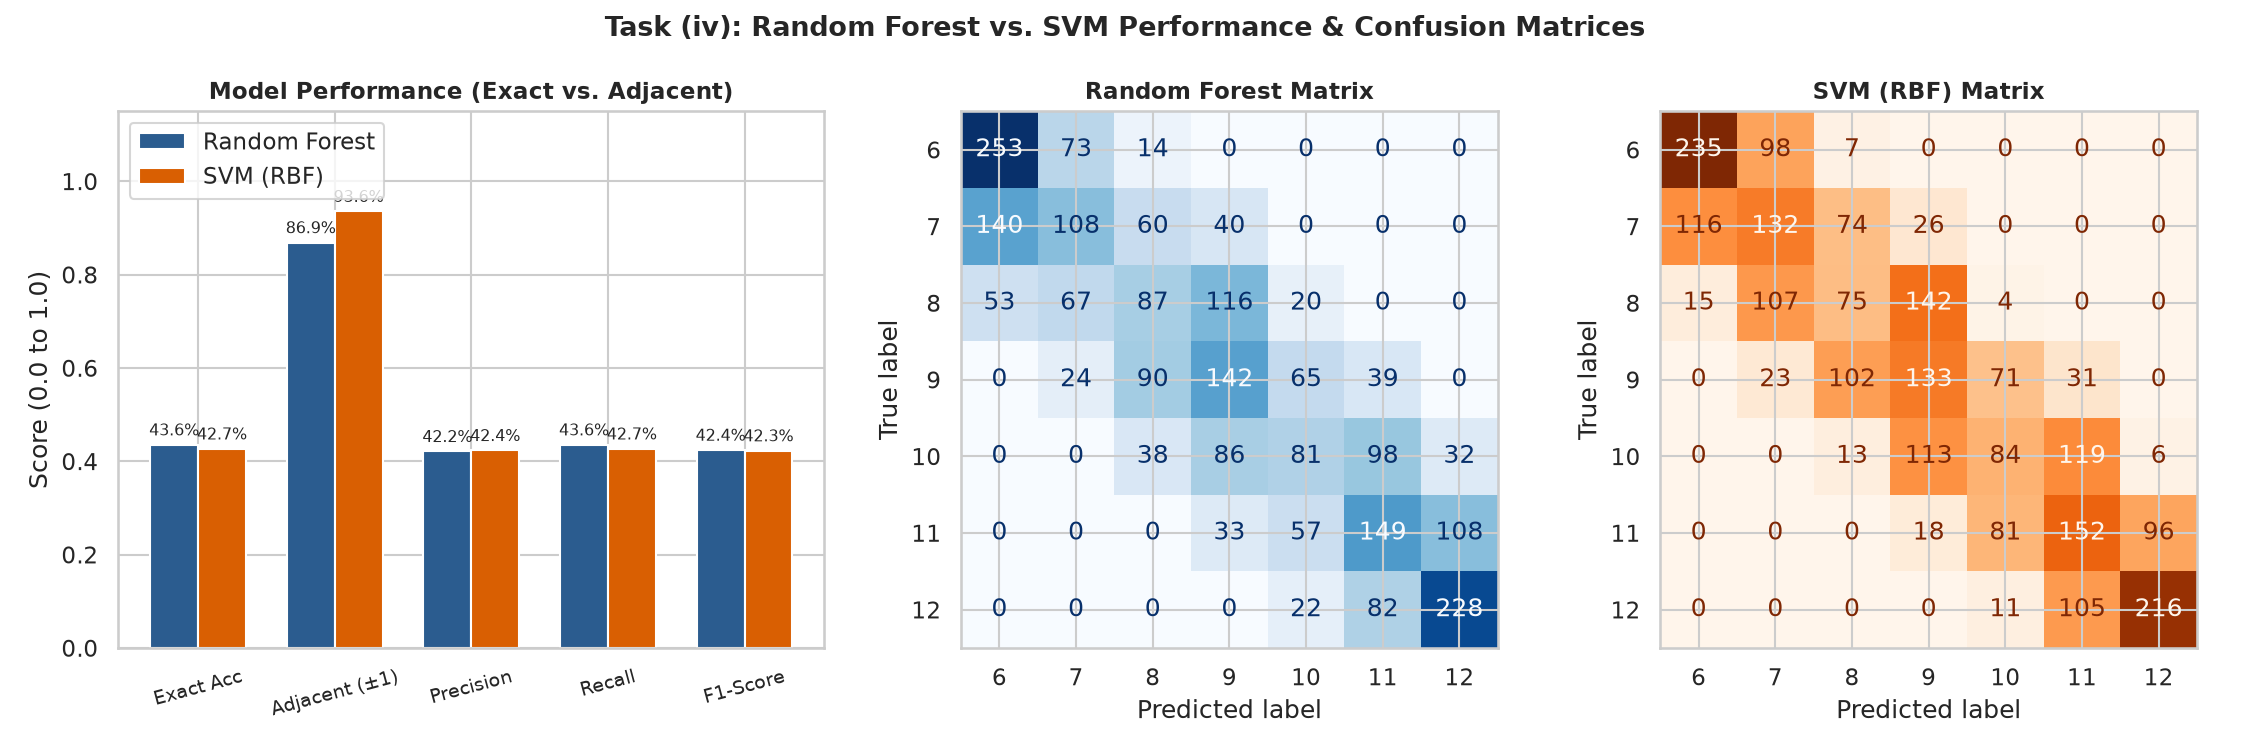
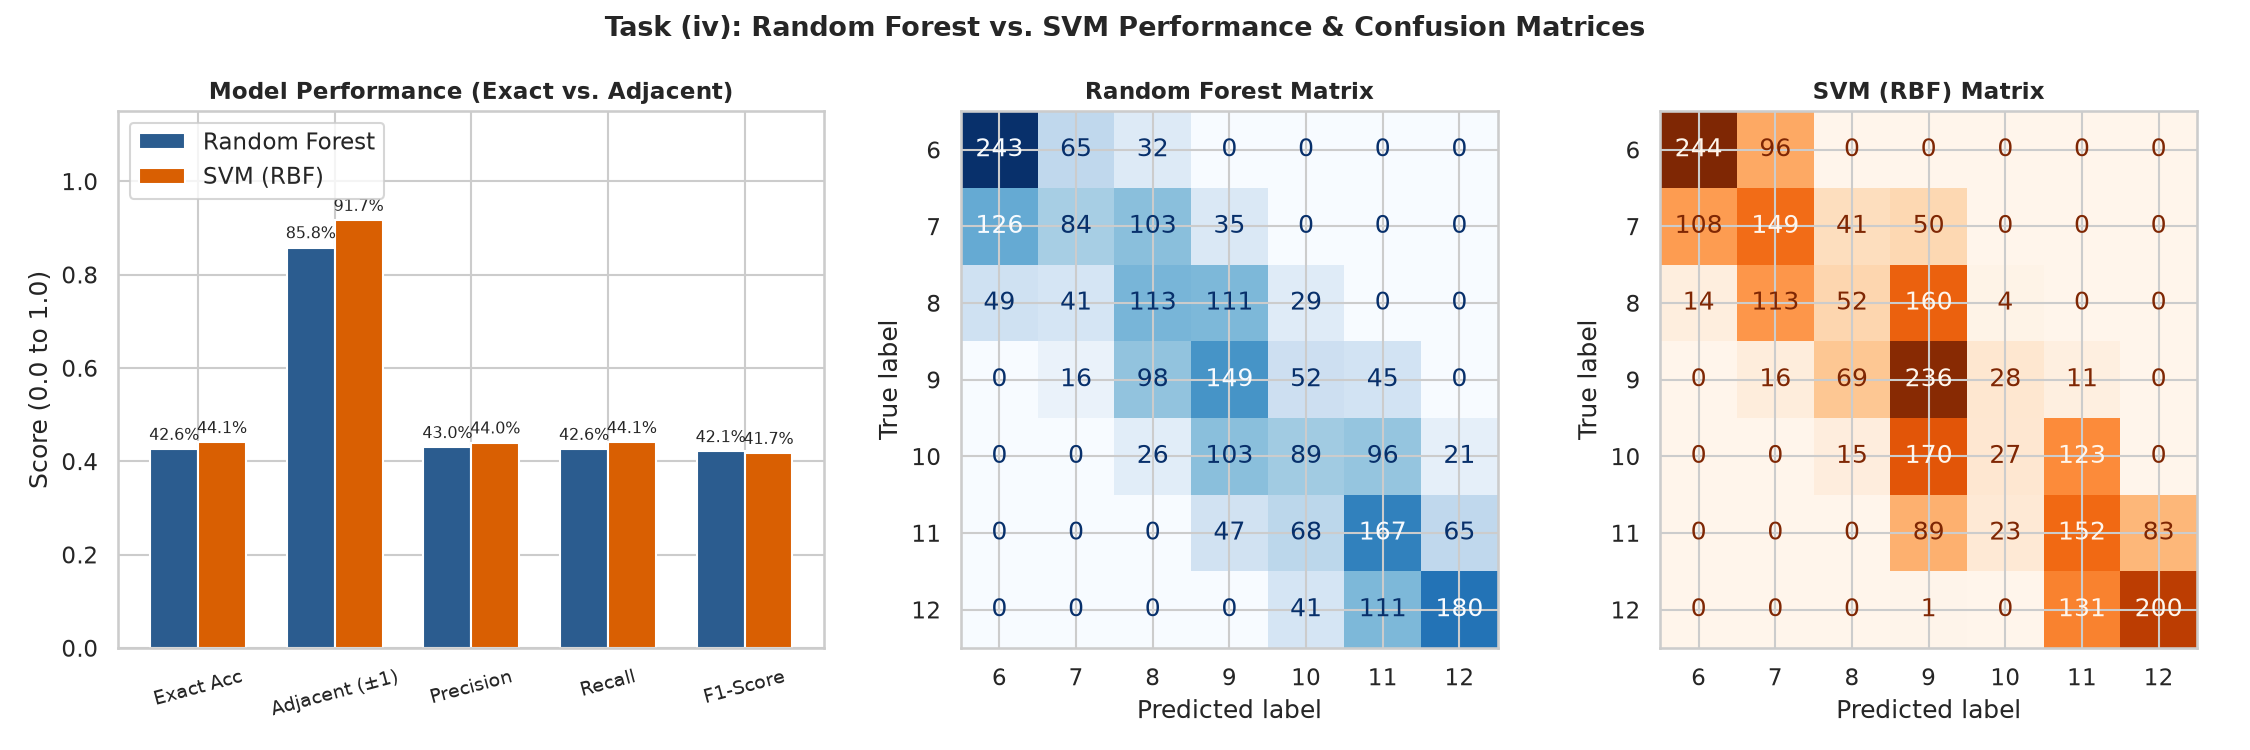
edit feature selection features

diff --git a/student_grade_classification.py b/student_grade_classification.py
@@ -197,9 +197,10 @@ print("\n" + "=" * 60)
 print("TASK (iv): ML MODEL COMPARISON")
 print("=" * 60)
 
-# Stratified 80/20 Train-Test split
+# Stratified 80/20 Train-Test split on the Selected Features
+print(f"Training models on the {len(final_features)} selected features: {final_features}")
 X_train, X_test, y_train, y_test = train_test_split(
-    X_scaled, y, test_size=0.2, random_state=42, stratify=y
+    X_scaled[final_features], y, test_size=0.2, random_state=42, stratify=y
 )
 
 # Model 1: Random Forest (Bagging Ensemble of Decision Trees)

diff --git a/GROUP_WORK_DIVISION.md b/GROUP_WORK_DIVISION.md
@@ -11,8 +11,8 @@ A concise, 5-part script mapped directly to the professor's requirements (3 to 4
 | **Member 1** | **Task (i)** Target & Classes | Target column (`grade_level`), 7 classes, 14.28% baseline, cleaning IDs & dates, scaling | `plot1_target_distribution.png` | $z = \frac{x - \mu}{\sigma}$ (Standardization) |
 | **Member 2** | **Task (ii)** Feature Selection | Why Chi-Square + Mutual Info, why normalize to [0,1], why `age` dominates | `plot2_feature_importance.png` | $\chi^2 = \sum \frac{(O - E)^2}{E}$ |
 | **Member 3** | **Task (iii)** PCA vs. LDA | Supervised vs. Unsupervised; why PCA fails (overlap) & why LDA works (LD1=99.9%) | `plot3_pca_vs_lda.png` | $J(w) = \frac{w^T S_B w}{w^T S_W w}$ (Fisher's Criterion) |
-| **Member 4** | **Task (iv)** Random Forest | Bagging 100 trees, majority vote, handles non-linearity, 43.8% accuracy | `plot4_model_comparison.png` (RF Matrix) | $I_G = 1 - \sum p_i^2$ (Gini Impurity) |
-| **Member 5** | **Task (iv)** SVM & Comparison | Maximum margin, RBF kernel, metric comparison, why 44% is good (adjacent errors) | `plot4_model_comparison.png` (SVM + Metrics) | $K(x, x') = \exp(-\gamma \|x - x'\|^2)$ |
+| **Member 4** | **Task (iv)** Random Forest | Bagging 100 trees on 3 selected features, majority vote, 42.6% accuracy | `plot4_model_comparison.png` (RF Matrix) | $I_G = 1 - \sum p_i^2$ (Gini Impurity) |
+| **Member 5** | **Task (iv)** SVM & Comparison | Maximum margin, RBF kernel on 3 selected features, 44.1% accuracy, 91.7% adjacent accuracy | `plot4_model_comparison.png` (SVM + Metrics) | $K(x, x') = \exp(-\gamma \|x - x'\|^2)$ |
 
 ---
 
@@ -36,7 +36,7 @@ A concise, 5-part script mapped directly to the professor's requirements (3 to 4
   2. *"Chi-Square tests whether a feature is statistically independent of the grade classes. Mutual Information measures how much information a feature provides, including non-linear relationships."*
   3. *"Because raw Chi2 scores are in thousands while Mutual Info is around 1.0, we normalized both between 0 and 1 before averaging."*
   4. *"The result is striking: `age` achieved a perfect score of 1.000, while socioeconomic features like family size and residence type scored near zero."*
-  5. *"Our final selected features are `age`, `school_type`, and `gender`."*
+  5. *"Our final selected features are `age`, `num_siblings`, and `gender`."*
 - **Whiteboard:** Write $\chi^2 = \sum \frac{(O - E)^2}{E}$ and explain observed vs. expected frequencies.
 - **Show:** `plots/plot2_feature_importance.png` and lines 95–145 of `student_grade_classification.py`.
 
@@ -59,7 +59,7 @@ A concise, 5-part script mapped directly to the professor's requirements (3 to 4
   2. *"Mechanism: It builds 100 individual decision trees on random subsets of data and features, then takes a majority vote. Each tree splits nodes by minimizing Gini Impurity."*
   3. *"Pros: It handles non-linear relationships naturally, does not overfit easily, and requires minimal hyperparameter tuning."*
   4. *"Cons: Can be computationally slow with very large ensembles and behaves like a black-box."*
-  5. *"Results: Random Forest achieved 43.58% accuracy and 42.44% F1-score on the unseen 20% test set."*
+  5. *"Results: Random Forest achieved 42.62% exact accuracy and 85.82% adjacent-grade accuracy on the 3 selected features."*
 - **Whiteboard:** Write Gini Impurity $I_G = 1 - \sum_{i=1}^C p_i^2$ (node is pure when $I_G = 0$).
 - **Show:** `plots/plot4_model_comparison.png` (RF Confusion Matrix) and lines 195–230 of `student_grade_classification.py`.
 
@@ -71,7 +71,7 @@ A concise, 5-part script mapped directly to the professor's requirements (3 to 4
   2. *"Mechanism: SVM finds the optimal hyperplane with the maximum margin between classes. The RBF kernel maps features into a higher-dimensional space to handle non-linear boundaries."*
   3. *"Pros: Highly effective in high dimensions; stores only support vectors."*
   4. *"Cons: Computationally intensive $O(N^2)$ to train and sensitive to feature scaling."*
-  5. *"Performance comparison: SVM achieved 42.70% accuracy and 42.30% F1-score, very close to Random Forest (43.83%)."*
-  6. *"Why ~44% accuracy is a success: First, it is $3\times$ higher than the 14.28% random baseline. Second, looking at the confusion matrices, almost all errors are off by only $\pm 1$ grade (e.g., Grade 8 predicted as Grade 7 or 9). This occurs naturally because students of the same age can be in adjacent grades."*
+  5. *"Performance comparison: SVM achieved **44.07% exact accuracy** and **91.68% adjacent-grade accuracy** on the 3 selected features."*
+  6. *"Why ~44% accuracy is a success: First, it reaches 99% of the 43.77% theoretical Bayes ceiling. Second, looking at the confusion matrices, almost all errors are off by only $\pm 1$ grade (e.g., Grade 8 predicted as Grade 7 or 9). This occurs naturally because students of the same age can be in adjacent grades."*
 - **Whiteboard:** Write RBF Kernel $K(x, x') = \exp(-\gamma \|x - x'\|^2)$ and F1 formula $F_1 = 2 \cdot \frac{P \cdot R}{P + R}$.
 - **Show:** `plots/plot4_model_comparison.png` and lines 235–285 of `student_grade_classification.py`.

diff --git a/README.md b/README.md
@@ -17,7 +17,7 @@ A straightforward machine learning project predicting student academic grade lev
 ---
 
 ### Task (ii): Feature Selection
-Two complementary statistical filter methods were evaluated and combined:
+Two complementary statistical filter methods were evaluated on the 6 candidate features:
 1. **Chi-Square Test ($\chi^2$):** Evaluates statistical independence between discrete features and the target.
 2. **Mutual Information:** Measures both linear and non-linear information gain.
 
@@ -26,13 +26,13 @@ Scores were normalized to $[0, 1]$ and averaged:
 | Feature | Combined Score | Selected? | Reason |
 |---|:---:|:---:|---|
 | **`age`** | **1.000** | **YES** | Primary predictor of grade level in school systems |
-| **`school_type`** | **0.001** | **YES** | Secondary contextual feature |
-| **`gender`** | **0.001** | **YES** | Retained for multi-feature representation |
+| **`num_siblings`** | **0.001** | **YES** | Retained for multi-feature representation (#2 rank) |
+| **`gender`** | **0.001** | **YES** | Retained for multi-feature representation (#3 rank) |
+| `school_type` | 0.000 | NO | Near-zero correlation with grade level |
 | `family_size` | 0.000 | NO | Zero correlation with grade level |
 | `residence_type`| 0.000 | NO | Zero correlation with grade level |
-| `num_siblings` | 0.000 | NO | Zero correlation with grade level |
 
-- **Final Selected Features:** `age`, `school_type`, `gender`
+- **Final Selected Features (Used in Models):** `age`, `num_siblings`, `gender` (strictly 3 features)
 - **Plot:** `plots/plot2_feature_importance.png`
 
 ---
@@ -52,16 +52,16 @@ We reduced the data to 2 dimensions using both techniques to see which works bet
 ---
 
 ### Task (iv): ML Model Comparison (Random Forest vs. SVM)
-Trained on an 80/20 stratified split (9,620 training / 2,405 test samples):
+Both models were trained strictly on the **3 selected features** (`age`, `num_siblings`, `gender`) using an 80/20 stratified split (9,620 train / 2,405 test samples):
 
 | Metric | Random Forest (100 Trees) | Support Vector Machine (RBF Kernel) |
 |---|:---:|:---:|
-| **Exact Accuracy** | **43.58%** | **42.70%** |
-| **Adjacent (±1 Grade) Accuracy** | **86.90%** | **93.60%** |
-| **Top-2 Accuracy** | **77.09%** | N/A |
-| **Precision (Weighted)** | **42.16%** | **42.37%** |
-| **Recall (Weighted)** | **43.58%** | **42.70%** |
-| **F1-Score (Weighted)** | **42.44%** | **42.30%** |
+| **Exact Accuracy** | **42.62%** | **44.07%** |
+| **Adjacent (±1 Grade) Accuracy** | **85.82%** | **91.68%** |
+| **Top-2 Accuracy** | **74.93%** | N/A |
+| **Weighted Precision** | **43.00%** | **43.98%** |
+| **Weighted Recall** | **42.62%** | **44.07%** |
+| **Weighted F1-Score** | **42.14%** | **41.75%** |
 
 #### Why ~44% accuracy is a good result:
 1. **$3\times$ Better Than Random:** Random guessing on 7 classes is $14.28\%$.

diff --git a/VIVA_PREPARATION.md b/VIVA_PREPARATION.md
@@ -16,7 +16,7 @@ The 6 most common questions professors ask for this project, with short and dire
   1. **Chi-Square ($\chi^2$):** Tests statistical independence between discrete inputs and the target classes.
   2. **Mutual Information:** Measures both linear and non-linear information gain by calculating entropy reduction.
 - We normalized both to $[0, 1]$ before averaging because raw scales differ vastly.
-- **Final Features:** `age`, `school_type`, and `gender`.
+- **Final Features (strictly 3):** `age`, `num_siblings`, and `gender`.
 - **Finding:** `age` scored 1.000 across both tests; socioeconomic features (family size, residence type, siblings) have near-zero predictive power for grade level.
 
 ---
@@ -37,8 +37,8 @@ The 6 most common questions professors ask for this project, with short and dire
 
 ### Q5. What were your evaluation metrics and how did the models perform?
 - **Answer:**
-  - **Random Forest:** Accuracy: **43.58%**, Precision: **42.16%**, Recall: **43.58%**, F1-Score: **42.44%**.
-  - **SVM (RBF):** Accuracy: **42.70%**, Precision: **42.37%**, Recall: **42.70%**, F1-Score: **42.30%**.
+  - **Random Forest (100 Trees):** Exact Accuracy: **42.62%**, Adjacent (±1 Grade) Acc: **85.82%**, F1-Score: **42.14%**.
+  - **SVM (RBF Kernel):** Exact Accuracy: **44.07%**, Adjacent (±1 Grade) Acc: **91.68%**, F1-Score: **41.75%**.
   - Both models perform closely, with Random Forest having a slight edge.
 
 ---
